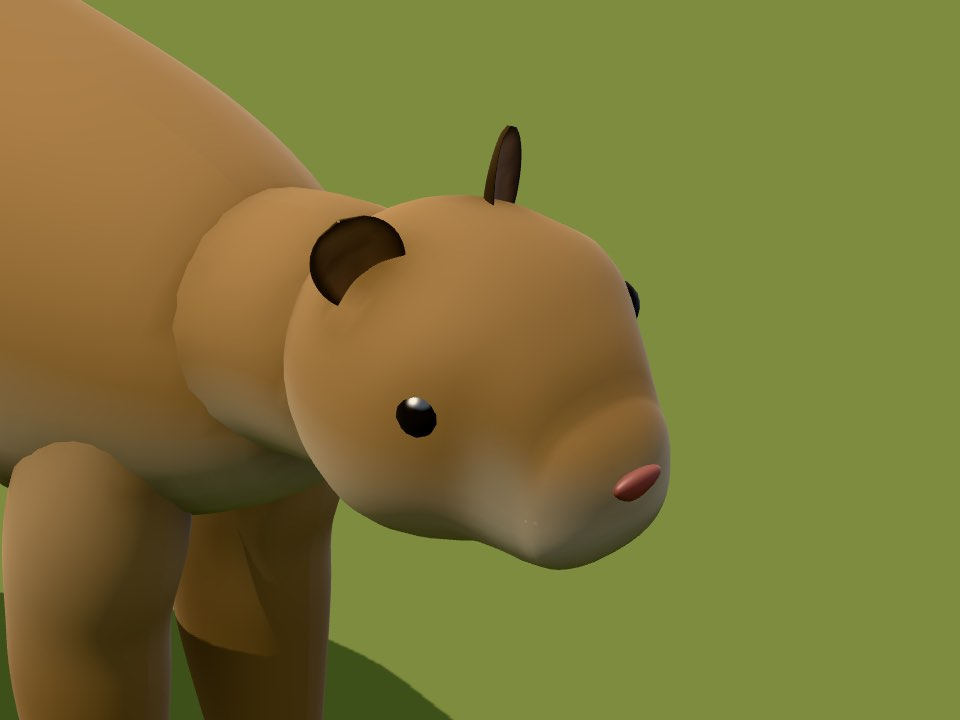
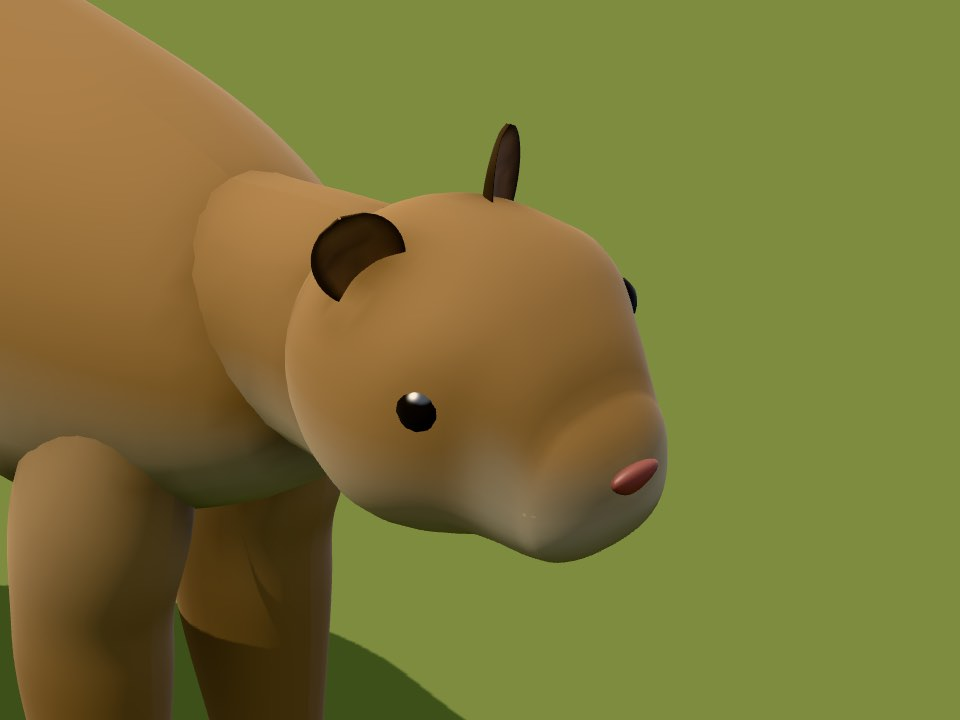
Cougar's neck shaped like a neck: deep at the shoulders, slimmer up the throat, widening into the skull (Cole)

diff --git a/js/render3d/animals/quadrupeds.js b/js/render3d/animals/quadrupeds.js
@@ -696,11 +696,12 @@ const MAMMALS = {
       legR1: H * (lion ? 0.085 : k ? 0.09 : s.cheetah ? 0.09 : plain ? 0.085 : 0.14), // (a plain cat's slim ankle under a full forearm and thigh)
       // (a plain cat: the hind thigh runs back into the rump, the legs taper to slim ankles over big paws)
       thighBack: plain ? H * 0.18 : 0, paw: plain ? 1.4 : 1, legSub: plain ? 8 : undefined, stifle: plain ? 0.72 : undefined, legSeg: plain ? 16 : undefined,
-      // (the round head's neck: one even, round tube from deep in the chest, near where the head turns, to
-      // inside the back of the skull, so it leaves the body the same all the way round and its top can't
-      // rise through the back when the head dips to stalk, Cole 2026-11-27)
-      neckPath: plain && !fit ? [[L * 0.27, by + H * 0.02, 0], [L * 0.4, by + H * 0.17, 0], [L * 0.55 - H * 0.36 * 0.3, by + H * 0.26 - H * 0.33 * 0.2, 0]] : undefined,
-      neckRadii: plain && !fit ? [H * 0.27, H * 0.26, H * 0.25] : undefined,
+      // (the round head's neck, from deep in the chest near where the head turns, so its top stays in the
+      // back when the head dips to stalk: deep and flattened side to side where it leaves the shoulders,
+      // narrowing up the throat, then widening into the back of the skull so the head sits on it, not a
+      // cylinder; [up, across] at each point. Cole 2026-11-27)
+      neckPath: plain && !fit ? [[L * 0.27, by + H * 0.02, 0], [L * 0.39, by + H * 0.17, 0], [L * 0.55 - H * 0.36 * 0.15, by + H * 0.26 - H * 0.33 * 0.15, 0]] : undefined,
+      neckRadii: plain && !fit ? [[H * 0.36, H * 0.27], [H * 0.27, H * 0.22], [H * 0.3, H * 0.27]] : undefined,
       neckR: H * (lion ? 0.25 : fit ? 0.23 : 0.3 - k * 0.02), jawDepth: fit ? 0.72 : undefined, skullUnder: fit ? 0.75 : undefined, // (a plain cat: a lean throat under a clean jaw) dots: s.cheetah ? [s.dark, 9, 0.2] : s.spotted ? [s.dark, 11, 0.21] : s.bobtail ? [shade(s.color, -0.4), 13, 0.16] : null, coatFine: s.bobtail ? false : undefined, rosettes: s.rosettes,
       coat, legColor, fine: s.clouds ? 2 : lion, detail: !!(lion || k || plain), legRings: legColor ? 8 : undefined,
       paws: true, toes: plain ? 4 : true, // soft, articulated paws

diff --git a/docs/ideas/2026-11-27-cougar-face/README.md b/docs/ideas/2026-11-27-cougar-face/README.md
@@ -72,3 +72,6 @@ it read as a hunch and "doesn't go all the way around". Making the body reach fo
 was wrong ("it still needs to have a neck"; reverted, with the low root). Now: one even, round tube
 (`neckPath`, `neckRadii` about 0.26 H) from deep in the chest near where the head turns to inside the
 skull, so it leaves the body evenly all round and its top stays in the back when stalking.
+Then "shouldn't just be a cylinder": the neck's sections now go deep and flattened at the shoulders
+([0.36, 0.27] H up/across), slimmer up the throat ([0.27, 0.22]) and widen into the back of the skull
+([0.3, 0.27]), which it enters further. Intro film not re-filmed (Cole: film only when asked).
